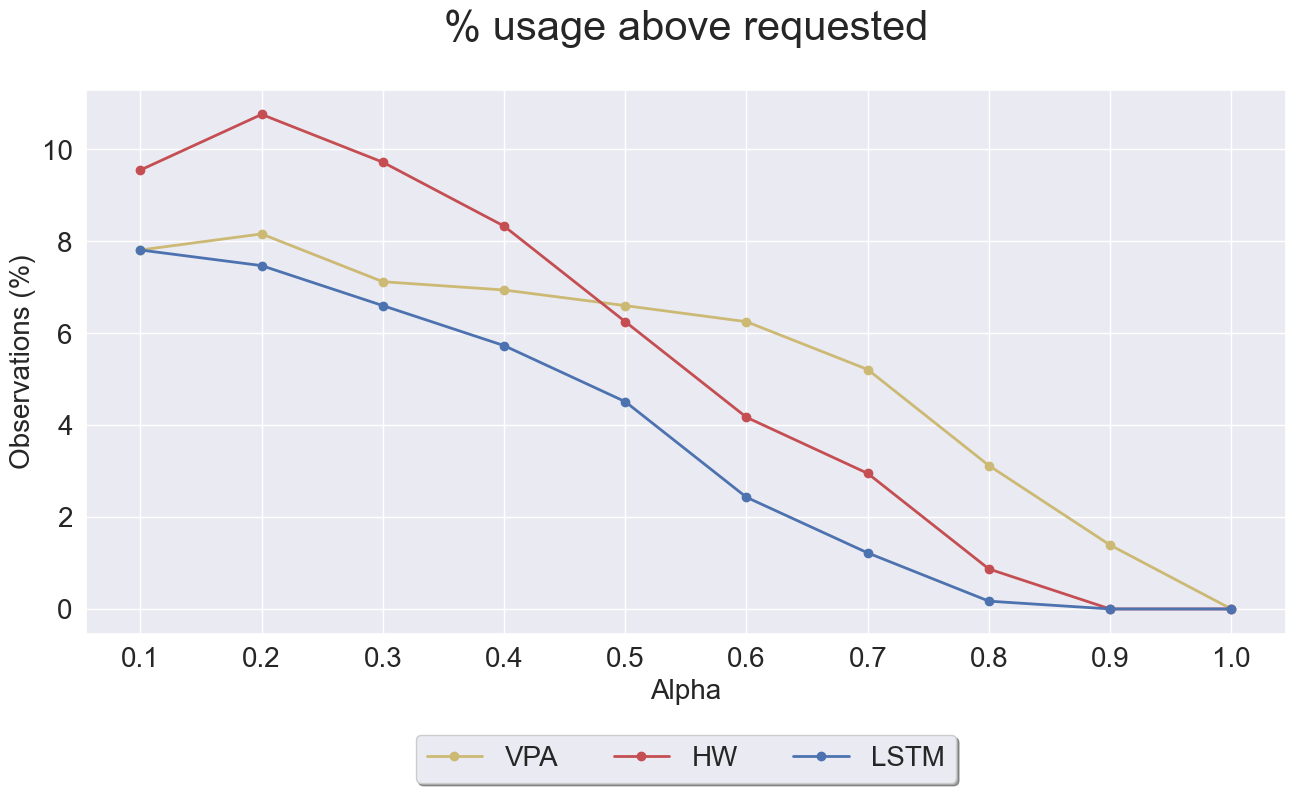
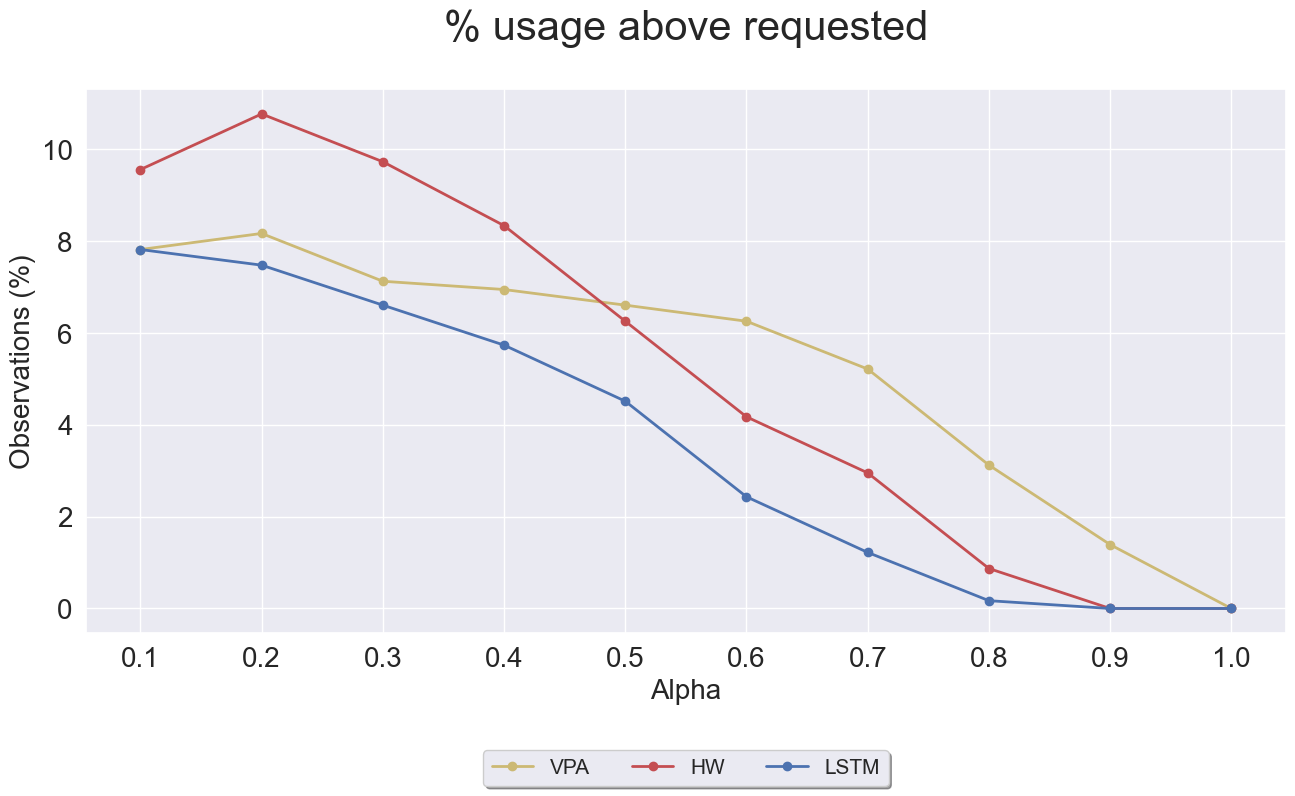
first test online

diff --git a/kube/lstm/help-plot-time.py b/kube/lstm/help-plot-time.py
@@ -21,7 +21,7 @@ fig = plt.figure(1)
 ax1 = fig.add_subplot(1,1,1)
 fig.subplots_adjust(left=0.1, bottom=0.2, right=None, top=None, wspace=None, hspace=None)
 t = "% usage above requested"
-fig.suptitle(t, fontsize=30)
+fig.suptitle(t, fontsize=23)
 
 fig.set_size_inches(15,8)
 
@@ -39,7 +39,10 @@ ax1.tick_params(axis="x", labelsize=20)
 ax1.tick_params(axis="y", labelsize=20) 
 
 
-ax1.legend(loc='lower center', bbox_to_anchor=(0.5, -0.30), fancybox=True, shadow=True, ncol=6, fontsize=20)
+leg4 = ax1.legend(loc='lower center', bbox_to_anchor=(0.5, -0.30), fancybox=True, shadow=True, ncol=6, fontsize=15)
+leg4_lines = leg4.get_lines()
+plt.setp(leg4_lines, linewidth=5)
+
 ax1.set_xlabel('Alpha', fontsize=20)
 ax1.set_ylabel('Observations (%)', fontsize=20)
 

diff --git a/kube/online/online.py b/kube/online/online.py
@@ -366,8 +366,8 @@ def update_main_plot():
     global params, cooldown, model, hw_model, steps_in, steps_out, n_features, ywindow
 
     # Testing ----------------------------------------
-    # print ("Hello")
-    # return
+    print ("Hello")
+    return
     
     # Get VPA metrics 
     if plotVPA:
@@ -427,7 +427,7 @@ def update_main_plot():
 
             pred_targets.append(pred_target)
             pred_lowers.append(pred_lower)
-            pred_targets.append(pred_upper)
+            pred_uppers.append(pred_upper)
             
             pred_x = range(len(pred_targets))
             # pred_x = [i * 15 for i in pred_x] TODO
